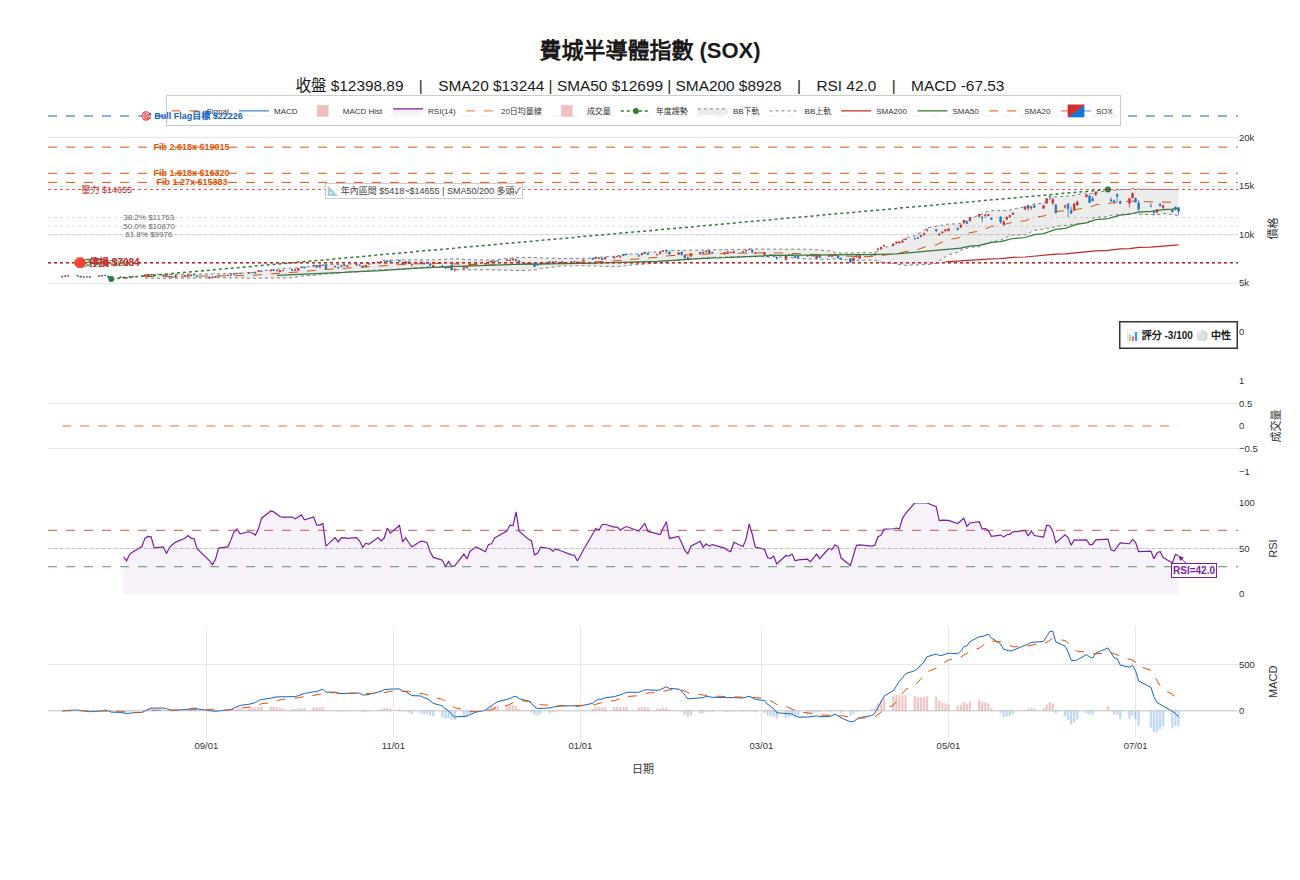
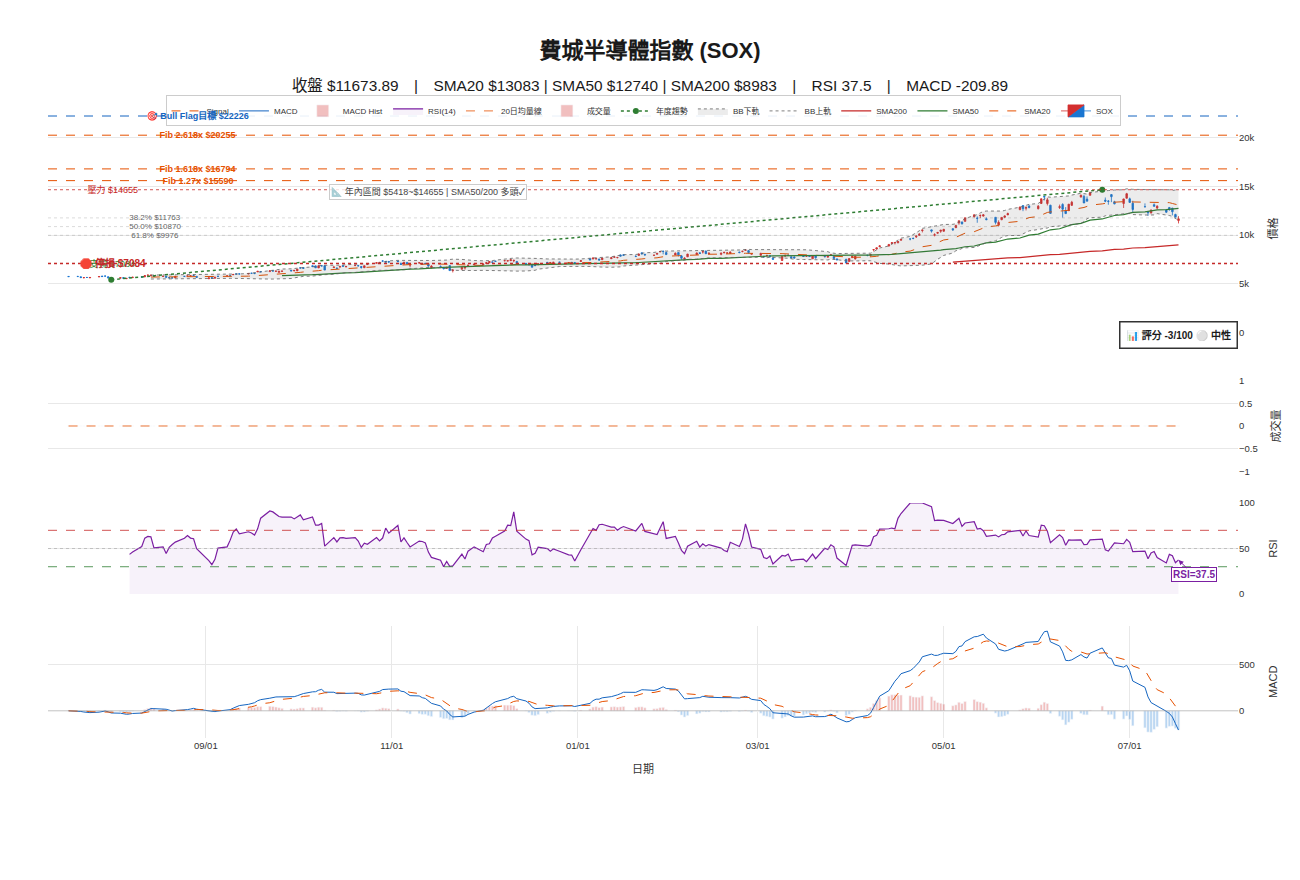
charts: 更新 2026-07-17 技術圖

diff --git a/charts/index.html b/charts/index.html
@@ -39,27 +39,27 @@ body { font-family:'Noto Sans TC',sans-serif; background:#f5f0e8; color:#1a1714;
   <a href="../">← 回首頁</a>
 </div>
 <div class="container">
-  <div class="date-badge">📅 2026/07/15 收盤 — 週三</div>
+  <div class="date-badge">📅 2026/07/17 收盤 — 週五</div>
   <div class="chart-grid">
     <div class="chart-card">
       <img src="dji.png" alt="道瓊工業指數">
-      <div class="info"><h3>道瓊工業指數 DJI</h3><p>52,658.64 (+0.29%) · RSI 65.5</p></div>
+      <div class="info"><h3>道瓊工業指數 DJI</h3><p>52,552.97 (-0.20%) · RSI 61.9</p></div>
     </div>
     <div class="chart-card">
       <img src="sox.png" alt="費城半導體指數">
-      <div class="info"><h3>費城半導體指數 SOX</h3><p>12,398.89 (-2.08%) · RSI 42.0</p></div>
+      <div class="info"><h3>費城半導體指數 SOX</h3><p>11,867.50 (-4.29%) · RSI 34.5</p></div>
     </div>
     <div class="chart-card">
       <img src="ixic.png" alt="納斯達克指數">
-      <div class="info"><h3>納斯達克指數 IXIC</h3><p>26,269.23 (+0.62%) · RSI 61.9</p></div>
+      <div class="info"><h3>納斯達克指數 IXIC</h3><p>25,881.95 (-1.47%) · RSI 57.3</p></div>
     </div>
     <div class="chart-card">
       <img src="tsm.png" alt="台積電 ADR">
-      <div class="info"><h3>台積電 ADR (TSM)</h3><p>$419.48 (-0.22%) · RSI 43.2</p></div>
+      <div class="info"><h3>台積電 ADR (TSM)</h3><p>$409.74 (-2.32%) · RSI 42.1</p></div>
     </div>
     <div class="chart-card">
       <img src="intc.png" alt="Intel">
-      <div class="info"><h3>Intel (INTC)</h3><p>$102.99 (-4.43%) · RSI 29.9</p></div>
+      <div class="info"><h3>Intel (INTC)</h3><p>$96.98 (-5.84%) · RSI 26.4</p></div>
     </div>
     <div class="chart-card" style="cursor:pointer;" onclick="location.href='taiex-technical.html'">
       <div style="height:160px;background:linear-gradient(135deg,#1a1a2e,#16213e);display:flex;align-items:center;justify-content:center;">
